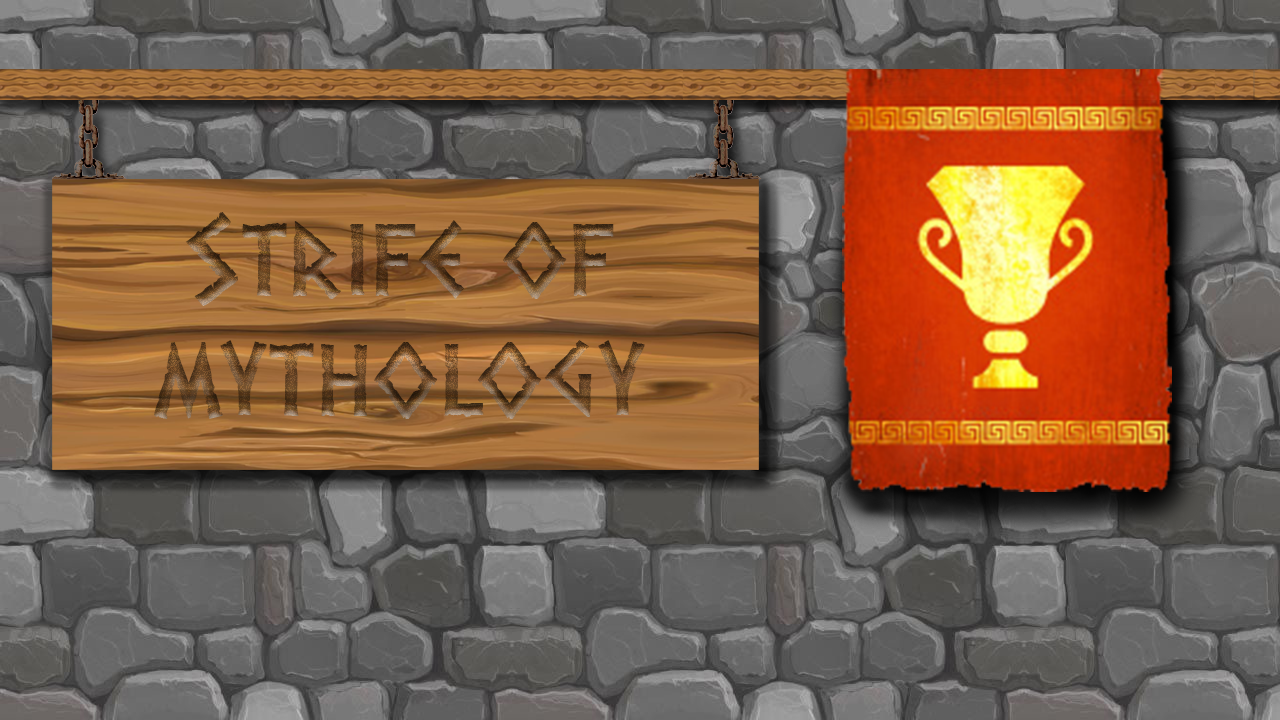
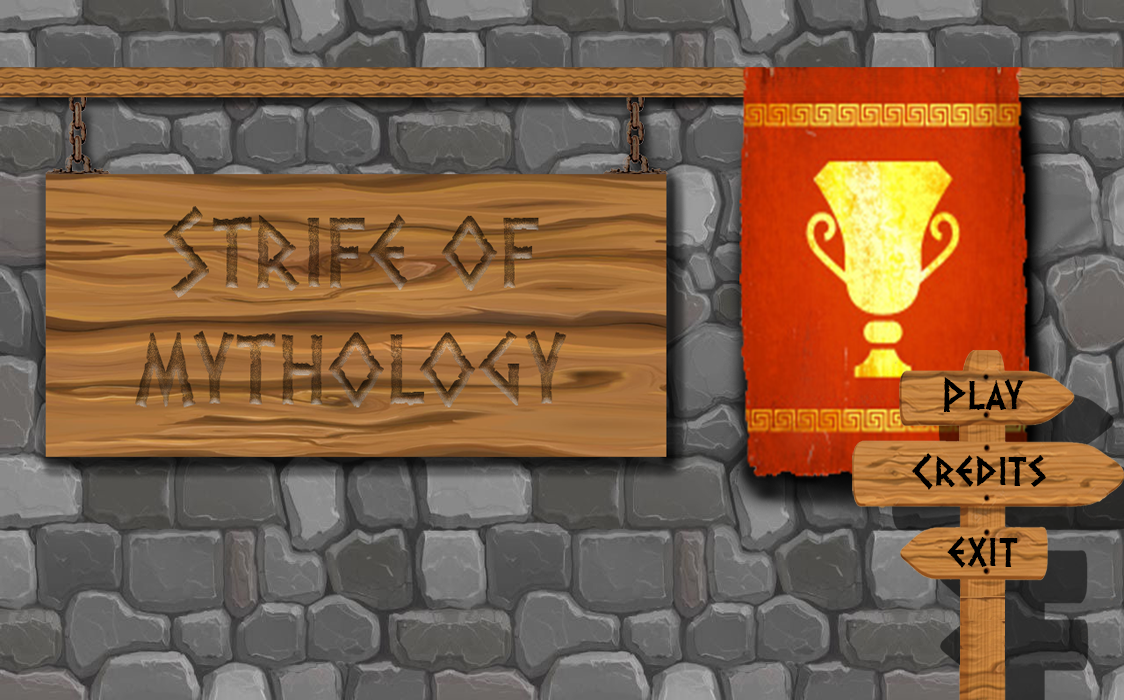
adds state and frame per line animation, menu level triggering on menu clicks

Changed region(s): [[0.7473, 0.48, 1.0, 1.0]]

diff --git a/game/src/menu_level.cpp b/game/src/menu_level.cpp
@@ -3,17 +3,24 @@
 
 #include <ijengine/engine.h>
 #include <ijengine/canvas.h>
+#include "luascript.h"
+#include "button.h"
+#include "player.h"
 
 SoMTD::MenuLevel::MenuLevel(std::string _map_path, std::string _new_map_path, std::string p_audio) :
     m_next(_new_map_path),
-    m_audio(p_audio)
+    m_audio(p_audio),
+    m_done(false)
 {
+    m_player = new SoMTD::Player();
     m_texture = ijengine::resources::get_texture("Menu.png");
     ijengine::event::register_listener(this);
+    load_buttons();
 }
 
 SoMTD::MenuLevel::~MenuLevel()
 {
+    delete m_player;
     ijengine::event::unregister_listener(this);
 }
 
@@ -32,10 +39,6 @@ SoMTD::MenuLevel::draw_self_after(ijengine::Canvas*, unsigned, unsigned)
 bool
 SoMTD::MenuLevel::on_event(const ijengine::GameEvent& event)
 {
-    if (event.id() == 777) {
-        m_done = true;
-        return true;
-    }
     return false;
 }
 
@@ -60,4 +63,44 @@ SoMTD::MenuLevel::done() const
 void
 SoMTD::MenuLevel::update_self(unsigned, unsigned)
 {
+}
+
+void
+SoMTD::MenuLevel::load_buttons()
+{
+    LuaScript button_list("lua-src/Button.lua");
+
+    std::string button_file_path;
+    pair<int, int> button_screen_position; // x = first, y = second
+    int button_id;
+    int button_priority = 0;
+    std::string button_mouseover_path;
+
+    std::vector< std::string > button_names {
+        "play_button", "exit_button", "credits_button"
+    };
+
+    for (std::string it : button_names) {
+        button_file_path = button_list.get<std::string>((it + ".file_path").c_str());
+        button_screen_position.first = button_list.get<int>((it + ".screen_position.x").c_str());
+        button_screen_position.second = button_list.get<int>((it + ".screen_position.y").c_str());
+        button_id = button_list.get<int>((it + ".id").c_str());
+        button_priority = button_list.get<int>((it + ".priority").c_str());
+        button_mouseover_path = button_list.get<std::string>((it + ".mouseover_file_path").c_str());
+        SoMTD::Button *b = new SoMTD::Button(button_file_path, button_id, button_screen_position.first, button_screen_position.second, button_mouseover_path, m_player, button_priority);
+        b->set_menu_level(this);
+        add_child(b);
+    }
+}
+
+SoMTD::Player*
+SoMTD::MenuLevel::player() const
+{
+    return m_player;
+}
+
+void
+SoMTD::MenuLevel::finish()
+{
+    m_done = true;
 }

diff --git a/game/src/animation.cpp b/game/src/animation.cpp
@@ -17,9 +17,13 @@ SoMTD::Animation::Animation(int new_grid_x, int new_grid_y, std::string new_file
     if (new_state_style == Animation::StateStyle::STATE_PER_COLUMN) {
         m_width = m_texture->w()/m_total_states;
         m_height = m_texture->h()/m_frame_per_state;
-    } else {
+    } else if (new_state_style == Animation::StateStyle::STATE_PER_LINE) {
         m_width = m_texture->w()/m_frame_per_state;
         m_height = m_texture->h()/m_total_states;
+    } else if (new_state_style == Animation::StateStyle::EVERYTHING_PER_LINE) {
+        m_width = m_texture->w()/(m_total_states);
+        m_width /= m_frame_per_state;
+        m_height = m_texture->h();
     }
 }
 
@@ -49,8 +53,10 @@ SoMTD::Animation::draw(ijengine::Canvas *c, unsigned, unsigned)
     ijengine::Rectangle rect(0, 0, m_width, m_height);
     if (m_state_style ==  StateStyle::STATE_PER_COLUMN)
         rect.set_position(m_width*m_actual_state, m_height*m_actual_frame);
-    else
+    else if (m_state_style == StateStyle::STATE_PER_LINE)
         rect.set_position(m_width*m_actual_frame, m_height*m_actual_state);
+    else if (m_state_style == 0x02)
+        rect.set_position((m_actual_frame*m_width)+(m_width*m_frame_per_state*m_actual_state), 0);
 
     m_texture = ijengine::resources::get_texture(m_file_path);
     c->draw(m_texture.get(), rect, m_screen_position.first+(100-m_width)/2, m_screen_position.second+81/2-m_height);
@@ -103,4 +109,11 @@ int
 SoMTD::Animation::frame_per_state() const
 {
     return m_frame_per_state;
+}
+
+void
+SoMTD::Animation::update_direction(SoMTD::Animation::DirectionState ds)
+{
+    if (m_total_states >= (int)ds)
+        m_actual_state = (int)ds;
 }

diff --git a/game/include/animation.h b/game/include/animation.h
@@ -15,7 +15,13 @@ namespace SoMTD {
         enum StateStyle {
             STATE_PER_COLUMN = 0x00,
             STATE_PER_LINE = 0x01,
-            TOTAL = 0x02
+            EVERYTHING_PER_LINE = 0x02,
+            TOTAL = 0x03
+        };
+
+        enum DirectionState {
+            DIRECTION_RIGHT = 0x00,
+            DIRECTION_LEFT = 0x01
         };
 
         Animation(int new_grid_x, int new_grid_y, std::string new_file_path, StateStyle new_state_style, int new_frame_per_state, int new_total_states);
@@ -33,8 +39,9 @@ namespace SoMTD {
         int width() const;
         int height() const;
         int frame_per_state() const;
+        void update_direction(SoMTD::Animation::DirectionState newstate);
 
-    public:
+    private:
         std::pair<int, int> m_screen_position;
         std::pair<int, int> m_tile;
         std::string m_file_path;
@@ -47,6 +54,8 @@ namespace SoMTD {
         StateStyle m_state_style;
         std::shared_ptr<ijengine::Texture> m_texture;
         ijengine::Rectangle *m_frame;
+        SoMTD::Animation::DirectionState m_actual_direction;
+
     };
 }
 

diff --git a/game/include/menu_level.h b/game/include/menu_level.h
@@ -1,5 +1,5 @@
-#ifndef MENU_LEVEL_H
-#define MENU_LEVEL_H
+#ifndef SOMTD_MENU_LEVEL_H
+#define SOMTD_MENU_LEVEL_H
 
 #include <ijengine/level.h>
 #include <ijengine/texture.h>
@@ -8,12 +8,14 @@
 #include <string>
 
 #include <memory>
+#include "player.h"
 
 namespace SoMTD {
     class MenuLevel : public ijengine::Level, public ijengine::GameEventsListener {
     public:
         MenuLevel(std::string current_map_name, std::string next_map_name, std::string p_audio);
         ~MenuLevel();
+        void finish();
 
     protected:
         void draw_self(ijengine::Canvas *c, unsigned, unsigned);
@@ -23,13 +25,15 @@ namespace SoMTD {
         std::string audio() const;
         std::string next() const;
         bool done() const;
+        Player *player() const;
 
     private:
         std::string m_next;
         bool m_done;
         std::string m_audio="";
         std::shared_ptr<ijengine::Texture> m_texture;
-
+        void load_buttons();
+        Player* m_player;
     };
 }
 

diff --git a/game/src/button.cpp b/game/src/button.cpp
@@ -18,6 +18,7 @@ SoMTD::Button::Button(std::string texture_name, unsigned id, int x, int y, std::
 {
     set_priority(myp);
     m_mouseover = false;
+    m_menu_level = nullptr;
     ijengine::event::register_listener(this);
 }
 
@@ -54,6 +55,9 @@ SoMTD::Button::on_event(const ijengine::GameEvent& event)
                 m_player->state = SoMTD::Player::PlayerState::HOLDING_BUILD;
                 m_player->update_desired_tower(m_id);
                 return true;
+            } else if (m_id == 1000) {
+                m_menu_level->finish();
+                return true;
             }
         }
     }
@@ -68,4 +72,10 @@ SoMTD::Button::draw_self(ijengine::Canvas *c, unsigned, unsigned)
     } else  {
         c->draw(m_texture.get(), m_x, m_y);
     }
+}
+
+void
+SoMTD::Button::set_menu_level(SoMTD::MenuLevel* ml)
+{
+    m_menu_level = ml;
 }

diff --git a/game/include/button.h b/game/include/button.h
@@ -6,6 +6,8 @@
 #include <ijengine/texture.h>
 
 #include "player.h"
+#include "menu_level.h"
+
 #include <memory>
 
 namespace SoMTD {
@@ -13,6 +15,7 @@ namespace SoMTD {
     public:
         Button(std::string texture_name, unsigned id, int x, int y, std::string mouseover_texture, Player *m, int myp);
         ~Button();
+        void set_menu_level(SoMTD::MenuLevel *ml);
 
         void draw_self(ijengine::Canvas *canvas, unsigned now, unsigned last);
         void draw_self_after(ijengine::Canvas*, unsigned, unsigned) { }
@@ -32,6 +35,7 @@ namespace SoMTD {
         int m_start;
         bool m_done;
         int m_priority;
+        SoMTD::MenuLevel *m_menu_level;
     };
 }
 

diff --git a/game/src/movable_unit.cpp b/game/src/movable_unit.cpp
@@ -171,6 +171,12 @@ SoMTD::MovableUnit::move(int new_x, int new_y, unsigned now)
     m_movement_speed.first /= (m_time_per_tile);
     m_movement_speed.second = (desired_place.second - y());
     m_movement_speed.second /= (m_time_per_tile);
+
+    if (m_movement_speed.first > 0) {
+        animation()->update_direction(Animation::DirectionState::DIRECTION_RIGHT);
+    } else if (m_movement_speed.first < 0) {
+        animation()->update_direction(Animation::DirectionState::DIRECTION_LEFT);
+    }
 }
 
 SoMTD::MovableUnit*
